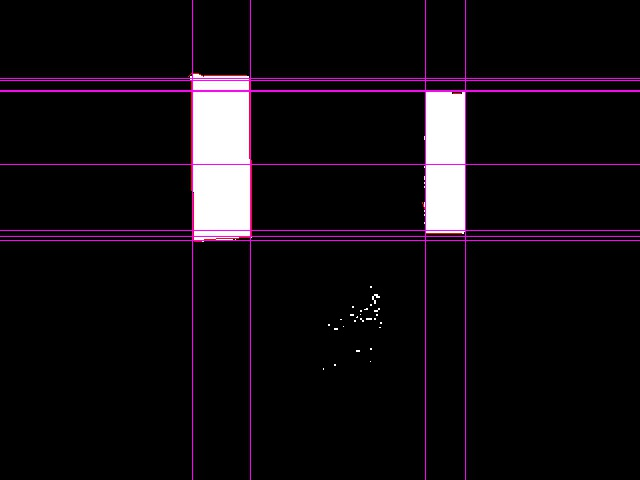
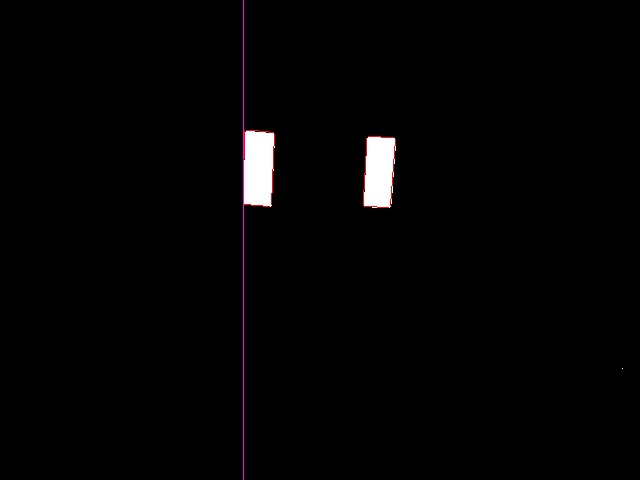
Again, ready to send to Kangaroo.

Changed region(s): [[0.0, 0.0, 1.0, 1.0], [0.5625, 0.625, 0.5938, 0.6562]]

diff --git a/src/com/thecharge/HelloOCV.java b/src/com/thecharge/HelloOCV.java
@@ -32,14 +32,14 @@ import javax.swing.*;
 import javax.swing.event.*;
 
 public class HelloOCV {
-	private static final boolean TROUBLESHOOTING_MODE = true;
+	private static final boolean TROUBLESHOOTING_MODE = false;
 	private static final boolean USE_VIDEO = true;
-	private static final boolean JPGS_TO_C = true;
+	private static final boolean JPGS_TO_C = false;
 	private static final boolean WRITE_NETW_TBLS = false;
 	private static final boolean INIT_WEBCAM_SETTINGS = false;
 	private static final boolean CALIBRATION_MODE = false;
-	private static boolean jpgMemMgmt = false;		// Recommended to be set true until the memory management issue is solved
-	private static boolean analyzeCamera = true;	// Generate a CSV file tracking camera settings vs results
+	private static boolean jpgMemMgmt = true;		// Recommended to be set true until the memory management issue is solved
+	private static boolean analyzeCamera = false;	// Generate a CSV file tracking camera settings vs results
 	private static final int MAX_CALIBR_PASS = 999;
 	private static boolean userStop = false;
 	private static final double INCH_GAP_BETW = 6.375; // Distance between reflective targets
@@ -71,12 +71,12 @@ public class HelloOCV {
 	private static double tanHlfAngleV = Math.tan(Math.toRadians(HALF_FIELD_ANGLE_V));
 	private static double pxlH2Vratio = 1.129265637;	// Carefully measuring a known sized target by inches then pixels
 	private static double dist2Target = 0;	// Calculated distance to the target in inches
-	private static final double INITIAL_LO_HUE = 53;	//83;	//88;	//40,65,68,32, 73;		//74;
-	private static final double INITIAL_HI_HUE = 109;	//108;	//94;	//142,120,117, 103;	//96;	// 93.99317406143345;
-	private static final double INITIAL_LO_SATURATION = 25;	//112;	//183;	//156,211, 14;	//40;	//45.86330935251798;
+	private static final double INITIAL_LO_HUE = 86;	//83;	//88;	//40,65,68,32, 73;		//74;
+	private static final double INITIAL_HI_HUE = 102;	//108;	//94;	//142,120,117, 103;	//96;	// 93.99317406143345;
+	private static final double INITIAL_LO_SATURATION = 144;	//112;	//183;	//156,211, 14;	//40;	//45.86330935251798;
 	private static final double INITIAL_HI_SATURATION = 255;	//255;	//250;	//255, 255;	//140;	//153;	// 128.80546075085323;
-	private static final double INITIAL_LO_LUMIN = 41;	//71;	//26;	//89,99,66, 135;	//80.26079136690647;
-	private static final double INITIAL_HI_LUMIN = 211;	//244;	//132;	//133,255,166, 235;	//163.61774744027304;
+	private static final double INITIAL_LO_LUMIN = 44;	//71;	//26;	//89,99,66, 135;	//80.26079136690647;
+	private static final double INITIAL_HI_LUMIN = 255;	//244;	//132;	//133,255,166, 235;	//163.61774744027304;
 	//LTGym8ft => 81 / 114 / 7 / 140 / 85 / 254
 	//BreakRoom => 71 / 110 / 17 / 253 / 12 / 255
 	//LTGym6f70d.jpg => 83 / 102 / 57 / 255 / 71 / 185
@@ -330,10 +330,10 @@ public class HelloOCV {
 			executionCount ++;
 			//System.currentTimeMillis()
 			
-		//} while ((calibrPass < MAX_CALIBR_PASS) || (USE_VIDEO));
+		} while ((calibrPass < MAX_CALIBR_PASS) || (USE_VIDEO));
 		//} while (executionCount < 1);
 		//} while (executionCount < 300);
-		} while (imageQuality > 0.5);
+		//} while (imageQuality > 0.5);
 		//} while ((dist2Target == 0) || (Double.toString(dist2Target).equals("NaN")));
 		//} while (dist2TargetTemp < 15);
 		//} while ((dist2TargetTemp == 0) || (dist2TargetTemp.isNaN()));
